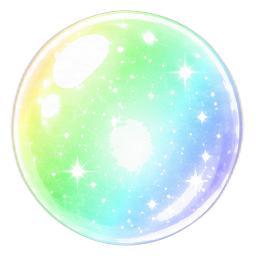
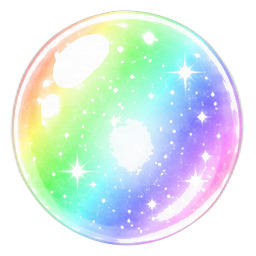
Special rainbow-bead reveal + fix the rainbow PNG's missing red/orange
The wild-card LOGIC was already working (determineTier/isCashable treat
rainbow as wild — that's why a rainbow shows a higher cash-in tier), but
the rainbow had no special moment, so it didn't feel implemented.

- BeadReveal now has a dedicated rainbow branch (like gold): 🌈 "RAINBOW
  BEAD!" in rainbow-gradient text, the message "Whoa — the beautiful gay
  rainbow bead! 🏳️🌈 The wild card: match it with ANY beads in your wallet
  to unlock higher tiers," a rainbow panel glow, and a rotating rainbow
  conic halo behind the bead. Cash In shows the wild-boosted tier; Keep
  banks it as a wild for later.
- bead-6.png regenerated: the spectrum was mapped across the whole IMAGE,
  so red(t=0)/magenta(t=1) fell in the transparent corners and only the
  green→blue middle showed. Now mapped across the BEAD's actual extent
  (alpha bbox) and more saturated → full red→orange→…→violet reads clearly.

Verified live: forced a rainbow draw → the special reveal renders with the
right Tier (wild match) and the rotating halo; no console errors. eslint +
build clean.

Changed region(s): [[0.1562, 0.1875, 0.9688, 0.9688], [0.0312, 0.0625, 0.375, 0.5312]]

diff --git a/src/screens/HomeScreen.jsx b/src/screens/HomeScreen.jsx
@@ -185,7 +185,7 @@ function HabitButton({ habit, color, onTap }) {
 //    Tier 3 cash-in); regular beads offer cash-in (if matches) or keep+Tier 1. ──
 function BeadReveal({ bead, wallet, getBeadColor, onCashIn, onKeep }) {
   const color = getBeadColor(bead.slot, bead.isGold)
-  const glow = bead.isGold ? '#FFD700' : color
+  const glow = bead.isGold ? '#FFD700' : bead.isRainbow ? '#FF8AE0' : color
   const [landed, setLanded] = useState(false)
   const best = isCashable(wallet).bestOption
   const canCashTier = !bead.isGold && best && best.tier >= 2
@@ -212,7 +212,9 @@ function BeadReveal({ bead, wallet, getBeadColor, onCashIn, onKeep }) {
           border: '3px solid #F1B2D6', borderRadius: 26,
           boxShadow: bead.isGold
             ? '0 0 0 4px rgba(255,255,255,0.6), 0 0 32px rgba(255,215,0,0.5), 0 14px 32px rgba(155,126,200,0.4)'
-            : '0 0 0 4px rgba(255,255,255,0.6), 0 14px 32px rgba(155,126,200,0.4)',
+            : bead.isRainbow
+              ? '0 0 0 4px rgba(255,255,255,0.7), 0 0 22px rgba(255,120,210,0.45), 0 0 42px rgba(110,180,255,0.4), 0 14px 32px rgba(155,126,200,0.4)'
+              : '0 0 0 4px rgba(255,255,255,0.6), 0 14px 32px rgba(155,126,200,0.4)',
           padding: '18px 20px 20px',
           display: 'flex', flexDirection: 'column', alignItems: 'center', gap: 9,
           textAlign: 'center',
@@ -229,6 +231,31 @@ function BeadReveal({ bead, wallet, getBeadColor, onCashIn, onKeep }) {
               <KawaiiButton variant="gold" size="md" fullWidth onClick={onCashIn}>
                 💎 Cash In · Tier 3
               </KawaiiButton>
+            </>
+          ) : bead.isRainbow ? (
+            <>
+              <div style={{ fontSize: 26, lineHeight: 1 }}>🌈</div>
+              <div style={{
+                fontFamily: "'Fredoka', cursive", fontSize: 24, lineHeight: 1.05,
+                background: 'linear-gradient(90deg, #FF5C5C, #FF9D3D, #FFD93D, #4DD97E, #3FAFFF, #8F6BFF, #F060D0)',
+                WebkitBackgroundClip: 'text', backgroundClip: 'text', WebkitTextFillColor: 'transparent',
+                filter: 'drop-shadow(0 1px 2px rgba(120,90,160,0.35))',
+              }}>
+                RAINBOW BEAD!
+              </div>
+              <div style={{ fontFamily: 'Mulish, sans-serif', fontSize: 14, color: '#7B5EA7', lineHeight: 1.32 }}>
+                Whoa — the <strong>beautiful gay rainbow bead</strong>! 🏳️🌈 The wild card: match it with <strong>ANY</strong> beads in your wallet to unlock higher tiers.
+              </div>
+              <div style={{ display: 'flex', flexDirection: 'column', gap: 8, width: '100%' }}>
+                {canCashTier && (
+                  <KawaiiButton variant="mint" size="md" fullWidth onClick={onCashIn}>
+                    💎 Cash In · Tier {tier}
+                  </KawaiiButton>
+                )}
+                <KawaiiButton variant={canCashTier ? 'secondary' : 'primary'} size="md" fullWidth onClick={onKeep}>
+                  🎰 Keep · Tier 1
+                </KawaiiButton>
+              </div>
             </>
           ) : (
             <>
@@ -260,12 +287,21 @@ function BeadReveal({ bead, wallet, getBeadColor, onCashIn, onKeep }) {
         <div style={{ animation: 'beadReveal 1.5s cubic-bezier(0.5,0.05,0.3,1) forwards' }}
           onAnimationEnd={() => setLanded(true)}>
           <div style={{ position: 'relative', width: 120, height: 120, display: 'grid', placeItems: 'center' }}>
-            {/* pulsing glow halo behind the bead */}
-            <div style={{
-              position: 'absolute', width: '185%', height: '185%', borderRadius: '50%',
-              background: `radial-gradient(circle, ${glow}99 0%, ${glow}33 38%, transparent 68%)`,
-              animation: 'revealHalo 2.2s ease-in-out infinite', pointerEvents: 'none',
-            }} />
+            {/* glow halo behind the bead — a rotating rainbow for the wild card */}
+            {bead.isRainbow ? (
+              <div style={{
+                position: 'absolute', width: '198%', height: '198%', borderRadius: '50%',
+                background: 'conic-gradient(from 0deg, #FF5C5C, #FF9D3D, #FFD93D, #4DD97E, #3FAFFF, #8F6BFF, #F060D0, #FF5C5C)',
+                filter: 'blur(13px)', opacity: 0.6,
+                animation: 'revealSpin 6s linear infinite', pointerEvents: 'none',
+              }} />
+            ) : (
+              <div style={{
+                position: 'absolute', width: '185%', height: '185%', borderRadius: '50%',
+                background: `radial-gradient(circle, ${glow}99 0%, ${glow}33 38%, transparent 68%)`,
+                animation: 'revealHalo 2.2s ease-in-out infinite', pointerEvents: 'none',
+              }} />
+            )}
             <BeadDisplay color={color} slot={bead.slot} isGold={bead.isGold}
               style={{ width: 120, height: 120, boxShadow: `0 0 26px ${glow}, 0 0 60px ${glow}88` }} />
           </div>
@@ -284,6 +320,7 @@ function BeadReveal({ bead, wallet, getBeadColor, onCashIn, onKeep }) {
           0%, 100% { opacity: 0.55; transform: scale(0.92); }
           50%      { opacity: 0.9;  transform: scale(1.06); }
         }
+        @keyframes revealSpin { to { transform: rotate(360deg); } }
       `}</style>
     </div>
   )